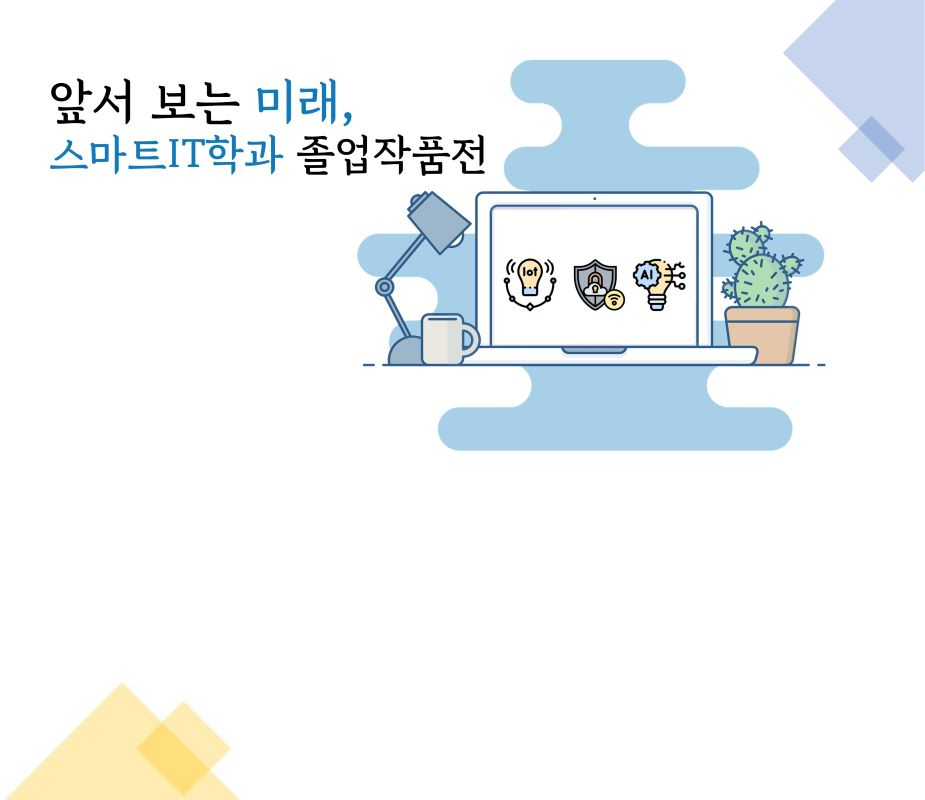
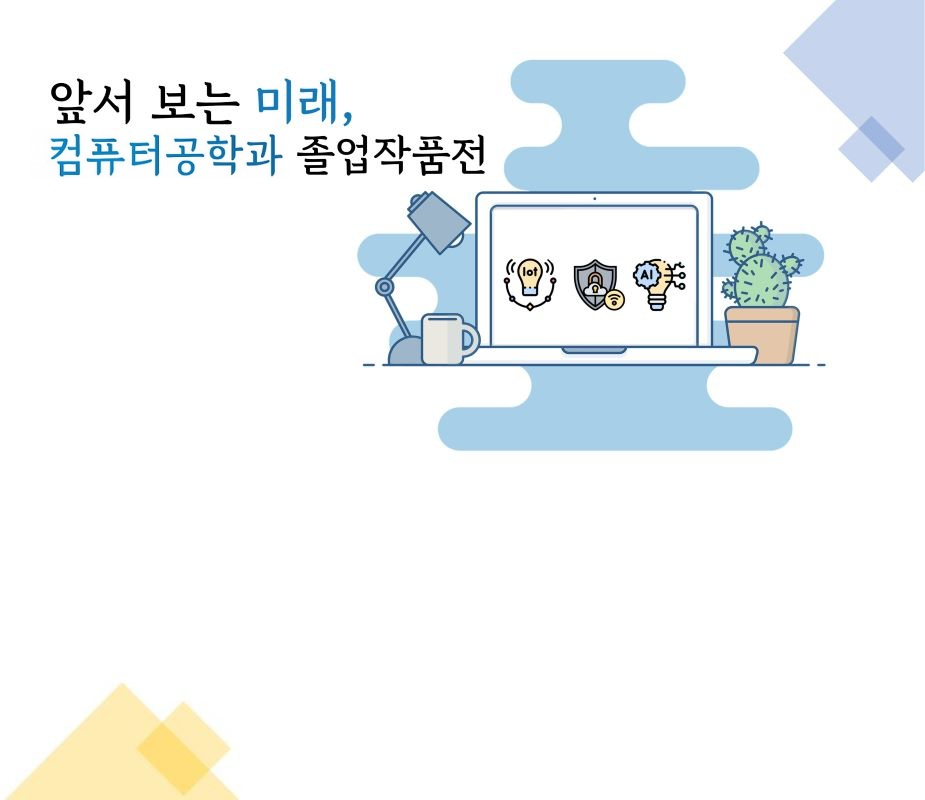
change dept name and change content of image

Changed region(s): [[0.0605, 0.1562, 0.3027, 0.2188]]

diff --git a/Service/Main/lhtml/Main_2023.html b/Service/Main/lhtml/Main_2023.html
@@ -8,7 +8,7 @@
     <meta name="keywords" content="">
     <meta property="og:site_name" content="" />
     <meta property="og:title" content="" />
-    <title>캡스톤 IT과 - 메인 페이지</title>
+    <title>배화여대 컴퓨터공학과</title>
     <!-- font -->
     <link href="https://fonts.googleapis.com/css?family=Nanum+Gothic:400,700,800&display=swap" rel="stylesheet">
     <link rel="stylesheet" type="text/css" href="https://cdn.jsdelivr.net/gh/moonspam/NanumSquare@1.0/nanumsquare.css">
@@ -62,9 +62,9 @@
             </div>
             <div class="wrap">
                 <div class="mc">
-                    <h2>스마트IT학과 2023학년도<span>제32회 졸업작품전</span><span>캡스톤 디자인</span></h2>
+                    <h2>컴퓨터공학과(스마트IT학과)<span>2023녀 제32회 졸업작품전</span><span>캡스톤 디자인</span></h2>
                     <div class="h2Desc">
-                        <span>스마트IT학과는 4차 산업혁명에 필요한 AI, 빅데이터, 소프트웨어, 모바일, 멀티미디어 분야에</span>
+                        <span>컴퓨터공학과는 4차 산업혁명에 필요한 AI, 빅데이터, 소프트웨어, 모바일, 멀티미디어 분야에</span>
                         <span>디저털 컨버전스와 퓨전영역의 실무 응용기술을 연구개발, 프로젝트 개발능력을 향상시켜 </span>
                         <span>산업체가 필요로 하는 실무능력 최고 전문가를 양성하고 있습니다.</span>
                     </div>
@@ -103,7 +103,7 @@
                 <div class="f_bottom clearfix">
                     <h2 class="f_left"><img src="/CapstoneProjectPage/Service/images/f_logo.png" alt="배화여자대학교"></h2>
                     <div class="address f_left">
-                        <p>03039 서울특별시 종로구 필운대로 1길 34 배화여자대학교 스마트IT학과 <span>T. 02-399-0825</span></p>
+                        <p>03039 서울특별시 종로구 필운대로 1길 34 배화여자대학교 컴퓨터공학과 <span>T. 02-399-0825</span></p>
                         <p class="copy">Copyright© BAEWHA WOMEN’S UNIVERSITY. All Rights Reserved.</p>
                     </div>
                 </div>

diff --git a/Service/Main/lhtml/Main_2024.html b/Service/Main/lhtml/Main_2024.html
@@ -8,7 +8,7 @@
     <meta name="keywords" content="">
     <meta property="og:site_name" content="" />
     <meta property="og:title" content="" />
-    <title>캡스톤 IT과 - 메인 페이지</title>
+    <title>배화여대 - 컴퓨터공학과</title>
     <!-- font -->
     <link href="https://fonts.googleapis.com/css?family=Nanum+Gothic:400,700,800&display=swap" rel="stylesheet">
     <link rel="stylesheet" type="text/css" href="https://cdn.jsdelivr.net/gh/moonspam/NanumSquare@1.0/nanumsquare.css">
@@ -62,9 +62,9 @@
             </div>
             <div class="wrap">
                 <div class="mc">
-                    <h2>스마트IT학과 2024학년도<span>제33회 졸업작품전</span><span>캡스톤 디자인</span></h2>
+                    <h2>컴퓨터공학과(스마트IT학과)<span>2024년 제33회 졸업작품전</span><span>캡스톤 디자인</span></h2>
                     <div class="h2Desc">
-                        <span>스마트IT학과는 4차 산업혁명에 필요한 AI, 빅데이터, 소프트웨어, 모바일, 멀티미디어 분야에</span>
+                        <span>컴퓨터공학과는 4차 산업혁명에 필요한 AI, 빅데이터, 소프트웨어, 모바일, 멀티미디어 분야에</span>
                         <span>디저털 컨버전스와 퓨전영역의 실무 응용기술을 연구개발, 프로젝트 개발능력을 향상시켜 </span>
                         <span>산업체가 필요로 하는 실무능력 최고 전문가를 양성하고 있습니다.</span>
                     </div>
@@ -91,7 +91,7 @@
                 <div class="f_bottom clearfix">
                     <h2 class="f_left"><img src="/CapstoneProjectPage/Service/images/f_logo.png" alt="배화여자대학교"></h2>
                     <div class="address f_left">
-                        <p>03039 서울특별시 종로구 필운대로 1길 34 배화여자대학교 스마트IT학과 <span>T. 02-399-0825</span></p>
+                        <p>03039 서울특별시 종로구 필운대로 1길 34 배화여자대학교 컴퓨터공학과 <span>T. 02-399-0825</span></p>
                         <p class="copy">Copyright© BAEWHA WOMEN’S UNIVERSITY. All Rights Reserved.</p>
                     </div>
                 </div>

diff --git a/Service/Main/lhtml/Main_2022.html b/Service/Main/lhtml/Main_2022.html
@@ -8,7 +8,7 @@
     <meta name="keywords" content="">
     <meta property="og:site_name" content="" />
     <meta property="og:title" content="" />
-    <title>배화여자대학교 스마트IT학과</title>
+    <title>배화여자대학교 컴퓨터공학과</title>
     <!-- font -->
     <link href="https://fonts.googleapis.com/css?family=Nanum+Gothic:400,700,800&display=swap" rel="stylesheet">
     <link rel="stylesheet" type="text/css" href="https://cdn.jsdelivr.net/gh/moonspam/NanumSquare@1.0/nanumsquare.css">
@@ -62,9 +62,9 @@
             </div>
             <div class="wrap">
                 <div class="mc">
-                    <h2>스마트IT학과<span>제31회 졸업작품전</span><span>캡스톤 디자인</span></h2>
+                    <h2>컴퓨터공학과(스마트IT학과)<span>제31회 졸업작품전</span><span>캡스톤 디자인</span></h2>
                     <div class="h2Desc">
-                        <span>스마트IT학과는 4차 산업혁명에 필요한 AI, 빅데이터, 소프트웨어, 모바일, 멀티미디어 분야에</span>
+                        <span>컴퓨터공학과는 4차 산업혁명에 필요한 AI, 빅데이터, 소프트웨어, 모바일, 멀티미디어 분야에</span>
                         <span>디저털 컨버전스와 퓨전영역의 실무 응용기술을 연구개발, 프로젝트 개발능력을 향상시켜 </span>
                         <span>산업체가 필요로 하는 실무능력 최고 전문가를 양성하고 있습니다.</span>
                     </div>
@@ -91,7 +91,7 @@
                 <div class="f_bottom clearfix">
                     <h2 class="f_left"><img src="/CapstoneProjectPage/Service/images/f_logo.png" alt="배화여자대학교"></h2>
                     <div class="address f_left">
-                        <p>03039 서울특별시 종로구 필운대로 1길 34 배화여자대학교 스마트IT학과 <span>T. 02-399-0825</span></p>
+                        <p>03039 서울특별시 종로구 필운대로 1길 34 배화여자대학교 컴퓨터공학과 <span>T. 02-399-0825</span></p>
                         <p class="copy">Copyright© BAEWHA WOMEN’S UNIVERSITY. All Rights Reserved.</p>
                     </div>
                 </div>

diff --git a/Service/Main/lhtml/Main_2020.html b/Service/Main/lhtml/Main_2020.html
@@ -8,7 +8,7 @@
     <meta name="keywords" content="">
     <meta property="og:site_name" content="" />
     <meta property="og:title" content="" />
-    <title>스마트IT학과 - 메인 페이지 (2020)</title>
+    <title>배화여대 컴퓨터공학과</title>
     <!-- font -->
     <link href="https://fonts.googleapis.com/css?family=Nanum+Gothic:400,700,800&display=swap" rel="stylesheet">
     <link rel="stylesheet" type="text/css" href="https://cdn.jsdelivr.net/gh/moonspam/NanumSquare@1.0/nanumsquare.css">
@@ -62,9 +62,9 @@
             </div>
             <div class="wrap">
                 <div class="mc">
-                    <h2>스마트IT학과<span>제29회 졸업작품전</span><span>캡스톤 디자인</span></h2>
+                    <h2>컴퓨터공학과(스마트IT학과)<span>제29회 졸업작품전</span><span>캡스톤 디자인</span></h2>
                     <div class="h2Desc">
-                        <span>스마트IT학과는 4차 산업혁명에 필요한 AI, 빅데이터, 소프트웨어, 모바일, 멀티미디어 분야에</span>
+                        <span>컴퓨터공학과는 4차 산업혁명에 필요한 AI, 빅데이터, 소프트웨어, 모바일, 멀티미디어 분야에</span>
                         <span>디저털 컨버전스와 퓨전영역의 실무 응용기술을 연구개발, 프로젝트 개발능력을 향상시켜</span>
                         <span>산업체가 필요로 하는 실무능력 최고 전문가를 양성하고 있습니다.</span>
                     </div>
@@ -91,7 +91,7 @@
                 <div class="f_bottom clearfix">
                     <h2 class="f_left"><img src="/CapstoneProjectPage/Service/images/f_logo.png" alt="배화여자대학교"></h2>
                     <div class="address f_left">
-                        <p>03039 서울특별시 종로구 필운대로 1길 34 배화여자대학교 스마트IT학과 <span>T. 02-399-0825</span></p>
+                        <p>03039 서울특별시 종로구 필운대로 1길 34 배화여자대학교 컴퓨터공학과 <span>T. 02-399-0825</span></p>
                         <p class="copy">Copyright© BAEWHA WOMEN’S UNIVERSITY. All Rights Reserved.</p>
                     </div>
                 </div>

diff --git a/Service/Main/lhtml/Main_2021.html b/Service/Main/lhtml/Main_2021.html
@@ -8,7 +8,7 @@
     <meta name="keywords" content="">
     <meta property="og:site_name" content="" />
     <meta property="og:title" content="" />
-    <title>캡스톤 IT과 - 메인 페이지</title>
+    <title>배화여대 컴퓨터공학과</title>
     <!-- font -->
     <link href="https://fonts.googleapis.com/css?family=Nanum+Gothic:400,700,800&display=swap" rel="stylesheet">
     <link rel="stylesheet" type="text/css" href="https://cdn.jsdelivr.net/gh/moonspam/NanumSquare@1.0/nanumsquare.css">
@@ -62,9 +62,9 @@
             </div>
             <div class="wrap">
                 <div class="mc">
-                    <h2>스마트IT학과<span>제30회 졸업작품전</span><span>캡스톤 디자인</span></h2>
+                    <h2>컴퓨터공학과(스마트IT학과)<span>제30회 졸업작품전</span><span>캡스톤 디자인</span></h2>
                     <div class="h2Desc">
-                        <span>스마트IT학과는 4차 산업혁명에 필요한 AI, 빅데이터, 소프트웨어, 모바일, 멀티미디어 분야에</span>
+                        <span>컴퓨터공학과는 4차 산업혁명에 필요한 AI, 빅데이터, 소프트웨어, 모바일, 멀티미디어 분야에</span>
                         <span>디저털 컨버전스와 퓨전영역의 실무 응용기술을 연구개발, 프로젝트 개발능력을 향상시켜 </span>
                         <span>산업체가 필요로 하는 실무능력 최고 전문가를 양성하고 있습니다.</span>
                     </div>
@@ -91,7 +91,7 @@
                 <div class="f_bottom clearfix">
                     <h2 class="f_left"><img src="/CapstoneProjectPage/Service/images/f_logo.png" alt="배화여자대학교"></h2>
                     <div class="address f_left">
-                        <p>03039 서울특별시 종로구 필운대로 1길 34 배화여자대학교 스마트IT학과 <span>T. 02-399-0825</span></p>
+                        <p>03039 서울특별시 종로구 필운대로 1길 34 배화여자대학교 컴퓨터공학과 <span>T. 02-399-0825</span></p>
                         <p class="copy">Copyright© BAEWHA WOMEN’S UNIVERSITY. All Rights Reserved.</p>
                     </div>
                 </div>

diff --git a/Service/Sub/lhtml/2023_01.html b/Service/Sub/lhtml/2023_01.html
@@ -11,7 +11,7 @@
     <meta name="keywords" content="">
     <meta property="og:site_name" content="" />
     <meta property="og:title" content="" />
-    <title>스마트IT학과 - A팀 졸업작품전</title>
+    <title>컴퓨터공학과 - A팀 졸업작품전</title>
     <!-- font -->
     <link href="https://fonts.googleapis.com/css?family=Nanum+Gothic:400,700,800&display=swap" rel="stylesheet">
     <link rel="stylesheet" type="text/css" href="https://cdn.jsdelivr.net/gh/moonspam/NanumSquare@1.0/nanumsquare.css">
@@ -77,7 +77,7 @@
 
             <div class="subCont">
                 <div class="wrap">
-                    <h3>2023학년도 제32회 스마트IT학과 A팀 졸업작품전</h3>
+                    <h3>2023학년도 제32회 컴퓨터공학과(스마트IT학과) A팀 졸업작품전</h3>
                     <ul class="presentation">
                         <li>
                             <a href="https://www.youtube.com/embed/67Odsuafp_Q?si=E6ltKkfEjCi_PZYk" target="_blank"><img src="/CapstoneProjectPage/Service/images/2023_A/2023_01_01.png" alt=""/></a>
@@ -154,7 +154,7 @@
                 <div class="f_bottom clearfix">
                     <h2 class="f_left"><img src="/CapstoneProjectPage/Service/images/f_logo.png" alt="배화여자대학교"></h2>
                     <div class="address f_left">
-                        <p>03039 서울특별시 종로구 필운대로 1길 34 배화여자대학교 스마트IT학과 <span>T. 02-399-0825</span></p>
+                        <p>03039 서울특별시 종로구 필운대로 1길 34 배화여자대학교 컴퓨터공학과 <span>T. 02-399-0825</span></p>
                         <p class="copy">Copyright© BAEWHA WOMEN’S UNIVERSITY. All Rights Reserved.</p>
                     </div>
                 </div>

diff --git a/Service/Sub/lhtml/2023_02.html b/Service/Sub/lhtml/2023_02.html
@@ -11,7 +11,7 @@
     <meta name="keywords" content="">
     <meta property="og:site_name" content="" />
     <meta property="og:title" content="" />
-    <title>스마트IT학과 - B팀 졸업작품전</title>
+    <title>컴퓨터공학과 - B팀 졸업작품전</title>
     <!-- font -->
     <link href="https://fonts.googleapis.com/css?family=Nanum+Gothic:400,700,800&display=swap" rel="stylesheet">
     <link rel="stylesheet" type="text/css" href="https://cdn.jsdelivr.net/gh/moonspam/NanumSquare@1.0/nanumsquare.css">
@@ -77,7 +77,7 @@
 
             <div class="subCont">
                 <div class="wrap">
-                    <h3>2023학년도 제32회 스마트IT학과 B팀 졸업작품전</h3>
+                    <h3>2023학년도 제32회 컴퓨터공학과(스마트IT학과) B팀 졸업작품전</h3>
                     <ul class="presentation">
                         <li>
                             <a href="https://www.youtube.com/embed/QjPffgL_c4c?si=MxRNtmSUll0V-igj" target="_blank"><img src="/CapstoneProjectPage/Service/images/2023_B/2023_02_01.png" alt=""/></a>
@@ -181,7 +181,7 @@
                 <div class="f_bottom clearfix">
                     <h2 class="f_left"><img src="/CapstoneProjectPage/Service/images/f_logo.png" alt="배화여자대학교"></h2>
                     <div class="address f_left">
-                        <p>03039 서울특별시 종로구 필운대로 1길 34 배화여자대학교 스마트IT학과 <span>T. 02-399-0825</span></p>
+                        <p>03039 서울특별시 종로구 필운대로 1길 34 배화여자대학교 컴퓨터공학과 <span>T. 02-399-0825</span></p>
                         <p class="copy">Copyright© BAEWHA WOMEN’S UNIVERSITY. All Rights Reserved.</p>
                     </div>
                 </div>

diff --git a/Service/Sub/lhtml/2024_01.html b/Service/Sub/lhtml/2024_01.html
@@ -11,7 +11,7 @@
     <meta name="keywords" content="">
     <meta property="og:site_name" content="" />
     <meta property="og:title" content="" />
-    <title>스마트IT학과 - A팀 졸업작품전</title>
+    <title>컴퓨터공학과 - A팀 졸업작품전</title>
     <!-- font -->
     <link href="https://fonts.googleapis.com/css?family=Nanum+Gothic:400,700,800&display=swap" rel="stylesheet">
     <link rel="stylesheet" type="text/css" href="https://cdn.jsdelivr.net/gh/moonspam/NanumSquare@1.0/nanumsquare.css">
@@ -77,7 +77,7 @@
 
             <div class="subCont">
                 <div class="wrap">
-                    <h3>2024학년도 제33회 스마트IT학과 A팀 졸업작품전</h3>
+                    <h3>2024학년도 제33회 컴퓨터공학과(스마트IT학과) A팀 졸업작품전</h3>
                     <ul class="presentation">
                         <li>
                             <a href="https://youtu.be/7xN29s5vgbk" target="_blank"><img src="/CapstoneProjectPage/Service/images/2024_A/A_01_safe_friend.png" alt=""/></a>
@@ -191,7 +191,7 @@
                 <div class="f_bottom clearfix">
                     <h2 class="f_left"><img src="/CapstoneProjectPage/Service/images/f_logo.png" alt="배화여자대학교"></h2>
                     <div class="address f_left">
-                        <p>03039 서울특별시 종로구 필운대로 1길 34 배화여자대학교 스마트IT학과 <span>T. 02-399-0825</span></p>
+                        <p>03039 서울특별시 종로구 필운대로 1길 34 배화여자대학교 컴퓨터공학과 <span>T. 02-399-0825</span></p>
                         <p class="copy">Copyright© BAEWHA WOMEN’S UNIVERSITY. All Rights Reserved.</p>
                     </div>
                 </div>

diff --git a/Service/Sub/lhtml/2024_02.html b/Service/Sub/lhtml/2024_02.html
@@ -11,7 +11,7 @@
     <meta name="keywords" content="">
     <meta property="og:site_name" content="" />
     <meta property="og:title" content="" />
-    <title>스마트IT학과 - B팀 졸업작품전</title>
+    <title>컴퓨터공학과 - B팀 졸업작품전</title>
     <!-- font -->
     <link href="https://fonts.googleapis.com/css?family=Nanum+Gothic:400,700,800&display=swap" rel="stylesheet">
     <link rel="stylesheet" type="text/css" href="https://cdn.jsdelivr.net/gh/moonspam/NanumSquare@1.0/nanumsquare.css">
@@ -77,7 +77,7 @@
 
             <div class="subCont">
                 <div class="wrap">
-                    <h3>2024학년도 제33회 스마트IT학과 B팀 졸업작품전</h3>
+                    <h3>2024학년도 제33회 컴퓨터공학과(스마트IT학과) B팀 졸업작품전</h3>
                     <ul class="presentation">
                         <li>
                             <a href="https://youtu.be/BqOgE9pfR1k" target="_blank"><img src="/CapstoneProjectPage/Service/images/2024_B/B_01_0123.png" alt=""/></a>
@@ -194,7 +194,7 @@
                 <div class="f_bottom clearfix">
                     <h2 class="f_left"><img src="/CapstoneProjectPage/Service/images/f_logo.png" alt="배화여자대학교"></h2>
                     <div class="address f_left">
-                        <p>03039 서울특별시 종로구 필운대로 1길 34 배화여자대학교 스마트IT학과 <span>T. 02-399-0825</span></p>
+                        <p>03039 서울특별시 종로구 필운대로 1길 34 배화여자대학교 컴퓨터공학과 <span>T. 02-399-0825</span></p>
                         <p class="copy">Copyright© BAEWHA WOMEN’S UNIVERSITY. All Rights Reserved.</p>
                     </div>
                 </div>

diff --git a/Service/Sub/lhtml/2020_01.html b/Service/Sub/lhtml/2020_01.html
@@ -11,7 +11,7 @@
     <meta name="keywords" content="">
     <meta property="og:site_name" content="" />
     <meta property="og:title" content="" />
-    <title>스마트IT학과 - A팀 졸업작품전</title>
+    <title>컴퓨터공학과 - A팀 졸업작품전</title>
     <!-- font -->
     <link href="https://fonts.googleapis.com/css?family=Nanum+Gothic:400,700,800&display=swap" rel="stylesheet">
     <link rel="stylesheet" type="text/css" href="https://cdn.jsdelivr.net/gh/moonspam/NanumSquare@1.0/nanumsquare.css">
@@ -77,7 +77,7 @@
 
             <div class="subCont">
                 <div class="wrap">
-                    <h3>스마트IT학과 A팀 졸업작품전</h3>
+                    <h3>컴퓨터공학과(스마트IT학과) A팀 졸업작품전</h3>
                     <ul class="presentation">
                         <li>
                             <a href="https://www.youtube.com/watch?v=OTvtqOB9xfQ" target="_blank"><img src="/CapstoneProjectPage/Service/images/2020_A/2020_01_01.png" alt=""/></a>
@@ -169,7 +169,7 @@
                 <div class="f_bottom clearfix">
                     <h2 class="f_left"><img src="/CapstoneProjectPage/Service/images/f_logo.png" alt="배화여자대학교"></h2>
                     <div class="address f_left">
-                        <p>03039 서울특별시 종로구 필운대로 1길 34 배화여자대학교 스마트IT학과 <span>T. 02-399-0825</span></p>
+                        <p>03039 서울특별시 종로구 필운대로 1길 34 배화여자대학교 컴퓨터공학과 <span>T. 02-399-0825</span></p>
                         <p class="copy">Copyright© BAEWHA WOMEN’S UNIVERSITY. All Rights Reserved.</p>
                     </div>
                 </div>

diff --git a/Service/Sub/lhtml/2020_02.html b/Service/Sub/lhtml/2020_02.html
@@ -11,7 +11,7 @@
     <meta name="keywords" content="">
     <meta property="og:site_name" content="" />
     <meta property="og:title" content="" />
-    <title>스마트IT학과 - B팀 졸업작품전</title>
+    <title>컴퓨터공학과 - B팀 졸업작품전</title>
     <!-- font -->
     <link href="https://fonts.googleapis.com/css?family=Nanum+Gothic:400,700,800&display=swap" rel="stylesheet">
     <link rel="stylesheet" type="text/css" href="https://cdn.jsdelivr.net/gh/moonspam/NanumSquare@1.0/nanumsquare.css">
@@ -77,7 +77,7 @@
 
             <div class="subCont">
                 <div class="wrap">
-                    <h3>스마트IT학과 B팀 졸업작품전</h3>
+                    <h3>컴퓨터공학과(스마트IT학과) B팀 졸업작품전</h3>
                     <ul class="presentation">
                         <li>
                             <a href="https://www.youtube.com/watch?v=hL8oG1bi9cA" target="_blank"><img src="/CapstoneProjectPage/Service/images/2020_B/2020_02_01.png" alt=""/></a>
@@ -154,7 +154,7 @@
                 <div class="f_bottom clearfix">
                     <h2 class="f_left"><img src="/CapstoneProjectPage/Service/images/f_logo.png" alt="배화여자대학교"></h2>
                     <div class="address f_left">
-                        <p>03039 서울특별시 종로구 필운대로 1길 34 배화여자대학교 스마트IT학과 <span>T. 02-399-0825</span></p>
+                        <p>03039 서울특별시 종로구 필운대로 1길 34 배화여자대학교 컴퓨터공학과 <span>T. 02-399-0825</span></p>
                         <p class="copy">Copyright© BAEWHA WOMEN’S UNIVERSITY. All Rights Reserved.</p>
                     </div>
                 </div>

diff --git a/Service/Sub/lhtml/2021_01.html b/Service/Sub/lhtml/2021_01.html
@@ -11,7 +11,7 @@
     <meta name="keywords" content="">
     <meta property="og:site_name" content="" />
     <meta property="og:title" content="" />
-    <title>스마트IT학과 - A팀 졸업작품전</title>
+    <title>컴퓨터공학과 - A팀 졸업작품전</title>
     <!-- font -->
     <link href="https://fonts.googleapis.com/css?family=Nanum+Gothic:400,700,800&display=swap" rel="stylesheet">
     <link rel="stylesheet" type="text/css" href="https://cdn.jsdelivr.net/gh/moonspam/NanumSquare@1.0/nanumsquare.css">
@@ -77,7 +77,7 @@
 
             <div class="subCont">
                 <div class="wrap">
-                    <h3>스마트IT학과 A팀 졸업작품전</h3>
+                    <h3>컴퓨터공학과(스마트IT학과) A팀 졸업작품전</h3>
                     <ul class="presentation">
                         <li>
                             <a href="https://www.youtube.com/embed/viQVIgJloBo" target="_blank"><img src="/CapstoneProjectPage/Service/images/sub03_01_01.jpg" alt=""/></a>
@@ -193,7 +193,7 @@
                 <div class="f_bottom clearfix">
                     <h2 class="f_left"><img src="/CapstoneProjectPage/Service/images/f_logo.png" alt="배화여자대학교"></h2>
                     <div class="address f_left">
-                        <p>03039 서울특별시 종로구 필운대로 1길 34 배화여자대학교 스마트IT학과 <span>T. 02-399-0825</span></p>
+                        <p>03039 서울특별시 종로구 필운대로 1길 34 배화여자대학교 컴퓨터공학과 <span>T. 02-399-0825</span></p>
                         <p class="copy">Copyright© BAEWHA WOMEN’S UNIVERSITY. All Rights Reserved.</p>
                     </div>
                 </div>
